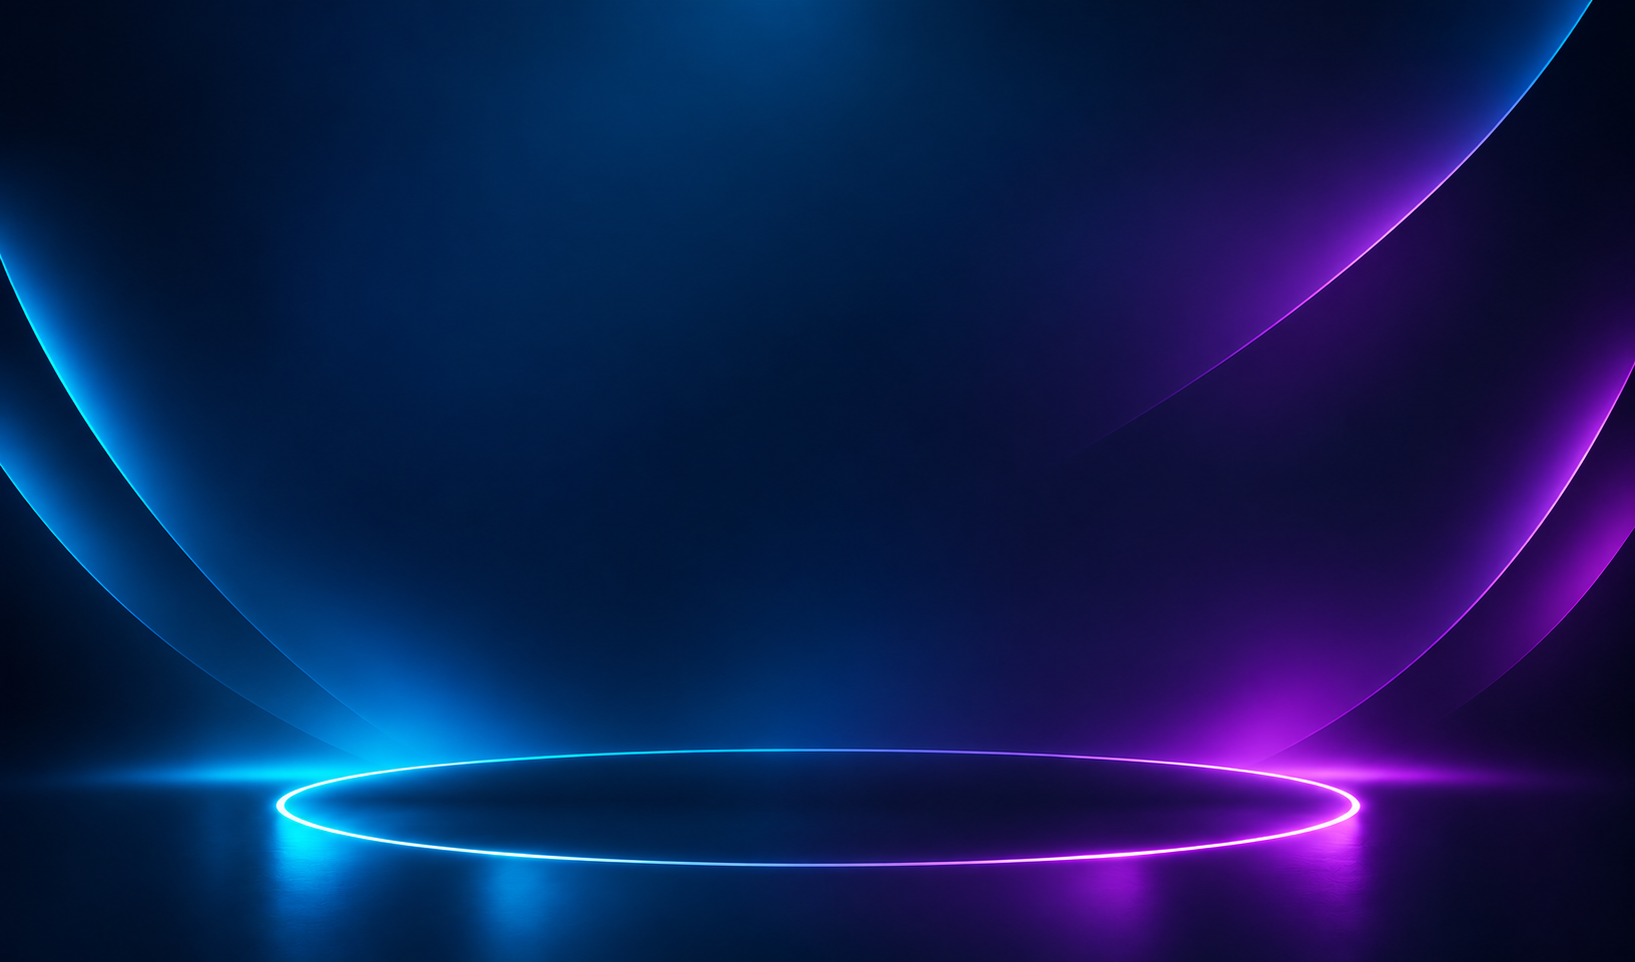
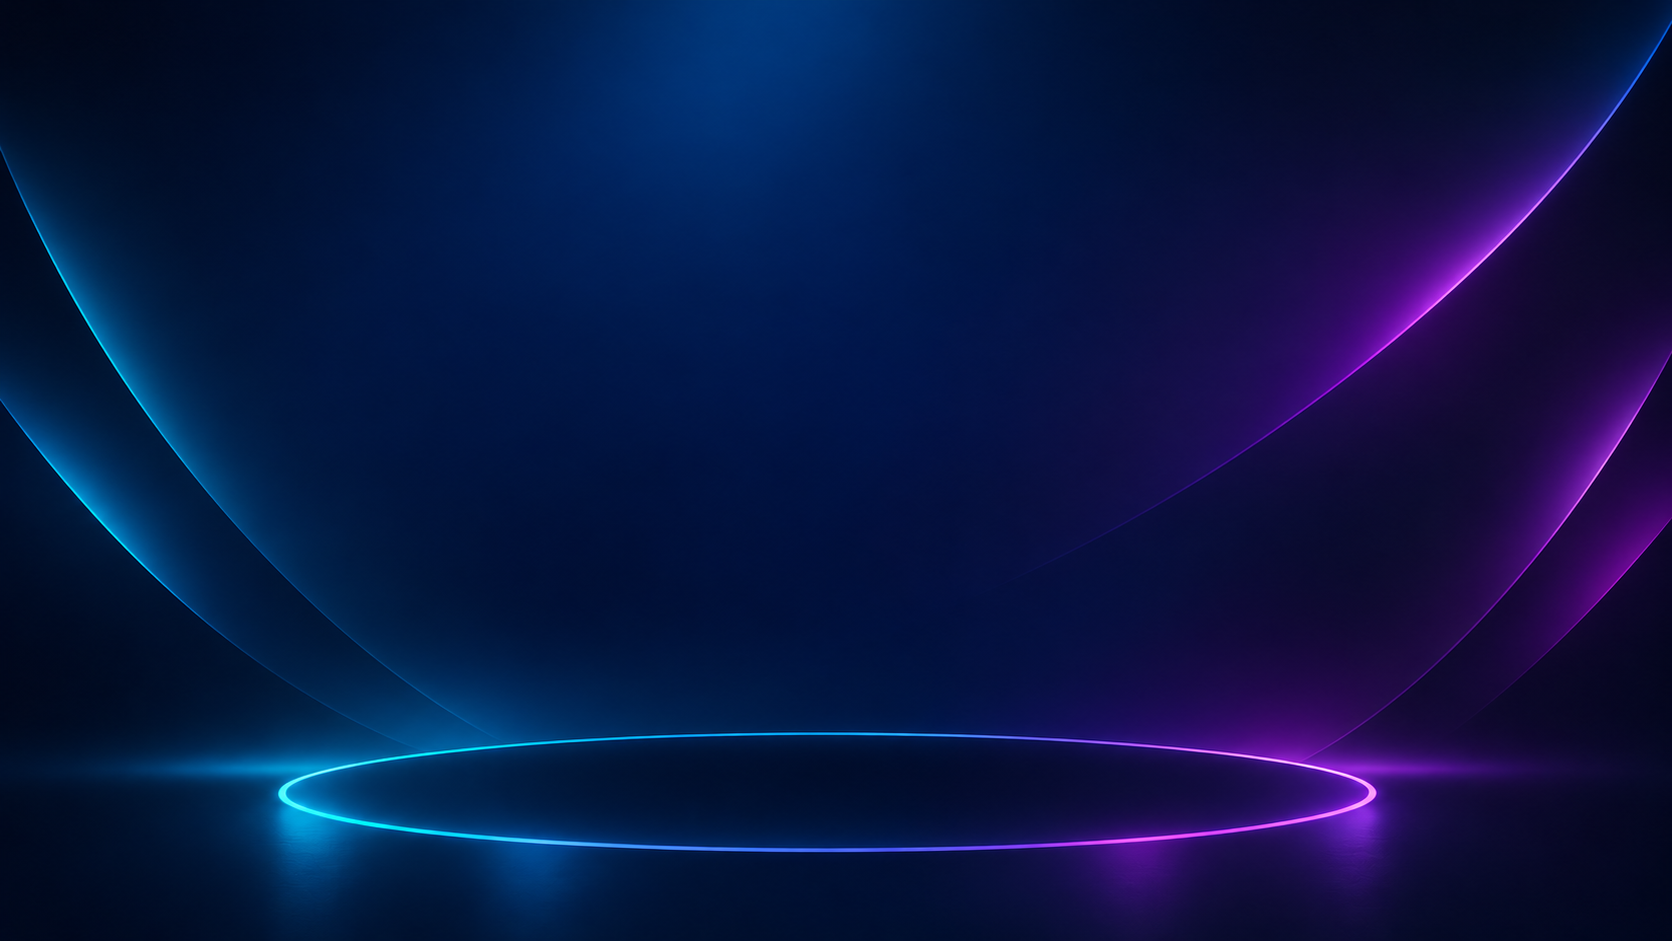
c

Changed region(s): [[0.0, 0.1541, 1.0, 1.0], [0.6862, 0.0, 1.0, 0.4623], [0.6862, 0.4623, 0.7486, 0.5239]]

diff --git a/cm-3d-radio-novo/src/app/estudio/studio-carousel.tsx b/cm-3d-radio-novo/src/app/estudio/studio-carousel.tsx
@@ -2,6 +2,7 @@
 
 import Image from "next/image";
 import { useCallback, useEffect, useRef, useState } from "react";
+import { flushSync } from "react-dom";
 import { RadioIcon } from "@/components/radio-icons";
 import styles from "./page.module.css";
 
@@ -77,8 +78,6 @@ export function StudioCarousel({ slides }: { slides: readonly StudioSlide[] }) {
   const [index, setIndex] = useState(0);
   const [galleryPage, setGalleryPage] = useState(0);
   const [playing, setPlaying] = useState(true);
-  const [outgoingSlide, setOutgoingSlide] = useState<StudioSlide | null>(null);
-  const [slideDirection, setSlideDirection] = useState<"previous" | "next">("next");
   const [viewerOpen, setViewerOpen] = useState(false);
   const [documentVisible, setDocumentVisible] = useState(true);
   const [inViewport, setInViewport] = useState(true);
@@ -87,13 +86,15 @@ export function StudioCarousel({ slides }: { slides: readonly StudioSlide[] }) {
   const viewerRef = useRef<HTMLDialogElement>(null);
   const remainingRef = useRef(slideDurationMs);
   const timedIndexRef = useRef(0);
-  const outgoingTimerRef = useRef<number | null>(null);
+  const transitionRef = useRef<{ skipTransition: () => void } | null>(null);
   const visibleSlides = activeCategory === null ? slides : slides.filter((slide) => slide.category === activeCategory);
   const activeCategoryLabel = categories.find((category) => category.id === activeCategory)?.label ?? "Todas";
   const current = visibleSlides[index];
   const canNavigate = visibleSlides.length > 1;
-  const previousSlide = canNavigate ? visibleSlides[(index - 1 + visibleSlides.length) % visibleSlides.length] : null;
-  const nextSlide = canNavigate ? visibleSlides[(index + 1) % visibleSlides.length] : null;
+  const previousIndex = canNavigate ? (index - 1 + visibleSlides.length) % visibleSlides.length : 0;
+  const nextIndex = canNavigate ? (index + 1) % visibleSlides.length : 0;
+  const previousSlide = canNavigate ? visibleSlides[previousIndex] : null;
+  const nextSlide = canNavigate ? visibleSlides[nextIndex] : null;
   const dotCount = Math.min(5, visibleSlides.length);
   const firstDot = Math.max(0, Math.min(index - 2, visibleSlides.length - dotCount));
   const visibleDots = Array.from({ length: dotCount }, (_, offset) => firstDot + offset);
@@ -104,22 +105,19 @@ export function StudioCarousel({ slides }: { slides: readonly StudioSlide[] }) {
 
   const transitionTo = useCallback((requested: number, revealInGallery = true) => {
     if (!canNavigate) return;
-    const nextIndex = (requested + visibleSlides.length) % visibleSlides.length;
-    if (nextIndex === index) return;
-    setSlideDirection(requested < index ? "previous" : "next");
-    setOutgoingSlide(current ?? null);
-    if (outgoingTimerRef.current !== null) window.clearTimeout(outgoingTimerRef.current);
-    outgoingTimerRef.current = window.setTimeout(() => {
-      setOutgoingSlide(null);
-      outgoingTimerRef.current = null;
-    }, 620);
-    setIndex(nextIndex);
-    if (revealInGallery) setGalleryPage(Math.floor(nextIndex / galleryPageSize));
-  }, [canNavigate, current, index, visibleSlides.length]);
-
-  useEffect(() => () => {
-    if (outgoingTimerRef.current !== null) window.clearTimeout(outgoingTimerRef.current);
-  }, []);
+    const destination = (requested + visibleSlides.length) % visibleSlides.length;
+    if (destination === index) return;
+    const update = () => {
+      setIndex(destination);
+      if (revealInGallery) setGalleryPage(Math.floor(destination / galleryPageSize));
+    };
+    if (viewerRef.current?.open || !document.startViewTransition || window.matchMedia("(prefers-reduced-motion: reduce)").matches) {
+      update();
+      return;
+    }
+    transitionRef.current?.skipTransition();
+    transitionRef.current = document.startViewTransition(() => flushSync(update));
+  }, [canNavigate, index, visibleSlides.length]);
 
   useEffect(() => {
     const update = () => setDocumentVisible(!document.hidden);
@@ -159,9 +157,7 @@ export function StudioCarousel({ slides }: { slides: readonly StudioSlide[] }) {
   }, [activeCategory, advancing, index, transitionTo]);
 
   function chooseCategory(category: StudioCategory | null) {
-    if (outgoingTimerRef.current !== null) window.clearTimeout(outgoingTimerRef.current);
-    outgoingTimerRef.current = null;
-    setOutgoingSlide(null);
+    transitionRef.current?.skipTransition();
     setPlaying(true);
     setActiveCategory(category);
     setIndex(0);
@@ -212,6 +208,7 @@ export function StudioCarousel({ slides }: { slides: readonly StudioSlide[] }) {
           <button
             key={previousSlide.src}
             className={`${styles.preview} ${styles.previewPrevious}`}
+            style={{ viewTransitionName: `studio-photo-${previousIndex}` }}
             type="button"
             aria-label={`Mostrar foto anterior: ${previousSlide.title}`}
             onClick={() => goTo(index - 1)}
@@ -222,15 +219,10 @@ export function StudioCarousel({ slides }: { slides: readonly StudioSlide[] }) {
         <section
           ref={rootRef}
           className={styles.carousel}
-          data-direction={slideDirection}
+          style={{ viewTransitionName: current ? `studio-photo-${index}` : "none" }}
           aria-label="Trabalhos reais de impressão 3D"
           aria-roledescription="carrossel"
         >
-          {outgoingSlide ? (
-            <div className={styles.outgoingPhoto} aria-hidden="true">
-              <Image src={outgoingSlide.src} alt="" fill sizes="(max-width: 480px) 58vw, 27vw" />
-            </div>
-          ) : null}
           {current ? (
             <button
               key={current.src}
@@ -285,6 +277,7 @@ export function StudioCarousel({ slides }: { slides: readonly StudioSlide[] }) {
           <button
             key={nextSlide.src}
             className={`${styles.preview} ${styles.previewNext}`}
+            style={{ viewTransitionName: `studio-photo-${nextIndex}` }}
             type="button"
             aria-label={`Mostrar próxima foto: ${nextSlide.title}`}
             onClick={() => goTo(index + 1)}

diff --git a/cm-3d-radio-novo/src/app/estudio/page.module.css b/cm-3d-radio-novo/src/app/estudio/page.module.css
@@ -68,7 +68,7 @@
   overflow: hidden;
   padding-block: clamp(0.7rem, 1.4cqi, 1.3rem);
   padding-inline: calc(var(--space-3) + clamp(0.7rem, 1.4cqi, 1.3rem));
-  background: #06142b url("/images/studio/fundo_carrossel.png") center bottom / cover no-repeat;
+  background: #06142b url("/images/studio/fundo_carrossel.png?v=3") center bottom / 100% 125% no-repeat;
 }
 
 .categoryColumn {
@@ -86,9 +86,15 @@
 .categories ul {
   display: grid;
   grid-template-columns: repeat(7, minmax(0, 1fr));
-  gap: clamp(0.3rem, 0.8cqi, 0.7rem);
   margin: 0;
   padding: 0;
+  overflow: hidden;
+  border: 1px solid transparent;
+  border-radius: 0.8rem;
+  background:
+    linear-gradient(rgb(3 16 38 / 88%), rgb(3 16 38 / 88%)) padding-box,
+    linear-gradient(100deg, #00e6ff, #287dff 52%, #bb18ff) border-box;
+  box-shadow: 0 0 12px rgb(0 205 255 / 55%), 0 0 17px rgb(169 28 255 / 35%);
   list-style: none;
 }
 
@@ -96,32 +102,35 @@
   min-width: 0;
 }
 
+.categories li + li {
+  border-left: 1px solid rgb(73 151 234 / 38%);
+}
+
 .categoryButton {
   display: grid;
   place-items: center;
   width: 100%;
-  min-height: clamp(1.5rem, 3.33cqi, 2.2rem);
-  padding: 0.05rem 0.2rem;
-  border: 1px solid rgb(66 143 211 / 38%);
-  border-radius: 0.55rem;
-  background: rgb(3 16 38 / 82%);
+  height: 100%;
+  min-height: 3.25rem;
+  padding: 0.3rem 0.45rem;
+  border: 0;
+  border-radius: 0;
+  background: transparent;
   color: #f5f8ff;
-  font-size: clamp(0.57rem, 0.85cqi, 0.72rem);
-  line-height: 1.05;
+  font-size: clamp(0.875rem, 1.15cqi, 1rem);
+  line-height: 1.15;
   text-align: center;
   cursor: pointer;
   transition: border-color var(--motion-fast) var(--ease-ui), background var(--motion-fast) var(--ease-ui);
 }
 
 .categoryButton:hover {
-  border-color: var(--accent-cyan);
   background: rgb(8 30 68 / 92%);
 }
 
 .categoryButton[aria-pressed="true"] {
-  border-color: rgb(75 205 255 / 70%);
-  background: linear-gradient(125deg, #00c9ed 0%, #0871db 48%, #a800ed 100%);
-  box-shadow: 0 0 17px rgb(20 164 255 / 32%);
+  background: #7924e8;
+  box-shadow: 0 0 17px rgb(153 56 255 / 45%);
   color: #fff;
   font-weight: 700;
 }
@@ -147,9 +156,11 @@
 
 .preview {
   position: relative;
+  top: 2cqh;
   align-self: center;
-  width: min(24cqw, 58cqh);
-  aspect-ratio: 4 / 5;
+  width: min(27cqw, 43cqh);
+  margin-bottom: 0;
+  aspect-ratio: 4 / 5.7;
   overflow: hidden;
   padding: 0;
   border: 2px solid #31cfff;
@@ -157,7 +168,6 @@
   background: var(--bg-studio);
   opacity: 0.94;
   cursor: pointer;
-  animation: previewReveal 620ms ease-out both;
   transition: opacity var(--motion-fast) var(--ease-ui), transform var(--motion-fast) var(--ease-ui);
 }
 
@@ -177,33 +187,35 @@
 .previewPrevious {
   grid-column: 1;
   justify-self: end;
-  transform: translateX(13%) rotate(-5deg);
+  transform: translateX(13%) perspective(900px) rotateY(-16deg) rotate(-4deg);
   box-shadow: 0 0 17px rgb(0 205 255 / 65%);
 }
 
 .previewPrevious:hover {
-  transform: translateX(13%) rotate(-5deg) scale(1.04);
+  transform: translateX(13%) perspective(900px) rotateY(-16deg) rotate(-4deg) scale(1.04);
 }
 
 .previewNext {
   grid-column: 3;
   justify-self: start;
   border-color: #d76aff;
-  transform: translateX(-13%) rotate(5deg);
+  transform: translateX(-13%) perspective(900px) rotateY(16deg) rotate(4deg);
   box-shadow: 0 0 17px rgb(190 44 255 / 60%);
 }
 
 .previewNext:hover {
-  transform: translateX(-13%) rotate(5deg) scale(1.04);
+  transform: translateX(-13%) perspective(900px) rotateY(16deg) rotate(4deg) scale(1.04);
 }
 
 .carousel {
   grid-column: 2;
   position: relative;
+  top: 10cqh;
   z-index: 2;
-  width: min(27cqw, 66cqh);
+  width: min(35cqw, 69cqh);
   max-width: 100%;
   align-self: center;
+  margin-bottom: 24cqh;
   aspect-ratio: 4 / 5;
   border: 2px solid #8cddff;
   border-radius: 1rem;
@@ -230,54 +242,6 @@
   border-radius: inherit;
   background: transparent;
   cursor: pointer;
-  animation: photoEnterNext 620ms cubic-bezier(0.22, 1, 0.36, 1) both;
-}
-
-.carousel[data-direction="previous"] .photoTrigger {
-  animation-name: photoEnterPrevious;
-}
-
-.outgoingPhoto {
-  position: absolute;
-  inset: 0;
-  z-index: 2;
-  overflow: hidden;
-  border-radius: inherit;
-  pointer-events: none;
-  animation: photoLeaveNext 620ms cubic-bezier(0.22, 1, 0.36, 1) both;
-}
-
-.carousel[data-direction="previous"] .outgoingPhoto {
-  animation-name: photoLeavePrevious;
-}
-
-.outgoingPhoto img {
-  object-fit: cover;
-}
-
-@keyframes photoEnterNext {
-  from { opacity: 0.45; transform: translateX(38%) scale(0.94); filter: blur(3px); }
-  to { opacity: 1; transform: translateX(0) scale(1); filter: blur(0); }
-}
-
-@keyframes photoEnterPrevious {
-  from { opacity: 0.45; transform: translateX(-38%) scale(0.94); filter: blur(3px); }
-  to { opacity: 1; transform: translateX(0) scale(1); filter: blur(0); }
-}
-
-@keyframes photoLeaveNext {
-  from { opacity: 1; transform: translateX(0) scale(1); }
-  to { opacity: 0; transform: translateX(-38%) scale(0.94); }
-}
-
-@keyframes photoLeavePrevious {
-  from { opacity: 1; transform: translateX(0) scale(1); }
-  to { opacity: 0; transform: translateX(38%) scale(0.94); }
-}
-
-@keyframes previewReveal {
-  from { opacity: 0.3; }
-  to { opacity: 0.94; }
 }
 
 .photoTrigger:focus-visible {
@@ -324,11 +288,11 @@
 }
 
 .previous {
-  left: clamp(0.25rem, 5cqi, 3rem);
+  left: clamp(3rem, 14cqw, 12rem);
 }
 
 .next {
-  right: clamp(0.25rem, 5cqi, 3rem);
+  right: clamp(3rem, 14cqw, 12rem);
 }
 
 .arrow:hover {
@@ -648,8 +612,8 @@
   }
 
   .categoryButton {
-    min-height: 1.5rem;
-    font-size: 0.6rem;
+    min-height: 3rem;
+    font-size: 0.875rem;
   }
 }
 
@@ -669,7 +633,9 @@
 
   .carousel {
     grid-column: 1;
+    top: 0;
     width: min(58cqw, 66cqh);
+    margin-bottom: 0;
   }
 
   .arrow {
@@ -699,9 +665,7 @@
 
   .arrow,
   .preview,
-  .photoTrigger,
-  .outgoingPhoto {
-    animation-duration: 0.01ms;
+  .photoTrigger {
     transition: none;
   }
 }

diff --git a/cm-3d-radio-novo/src/app/globals.css b/cm-3d-radio-novo/src/app/globals.css
@@ -75,3 +75,15 @@ a {
     scroll-behavior: auto;
   }
 }
+
+html:has([data-studio-page])::view-transition-group(*),
+html:has([data-studio-page])::view-transition-old(*),
+html:has([data-studio-page])::view-transition-new(*) {
+  animation-duration: 680ms;
+  animation-timing-function: cubic-bezier(0.22, 1, 0.36, 1);
+}
+
+html:has([data-studio-page])::view-transition-old(root),
+html:has([data-studio-page])::view-transition-new(root) {
+  animation-duration: 0s;
+}
